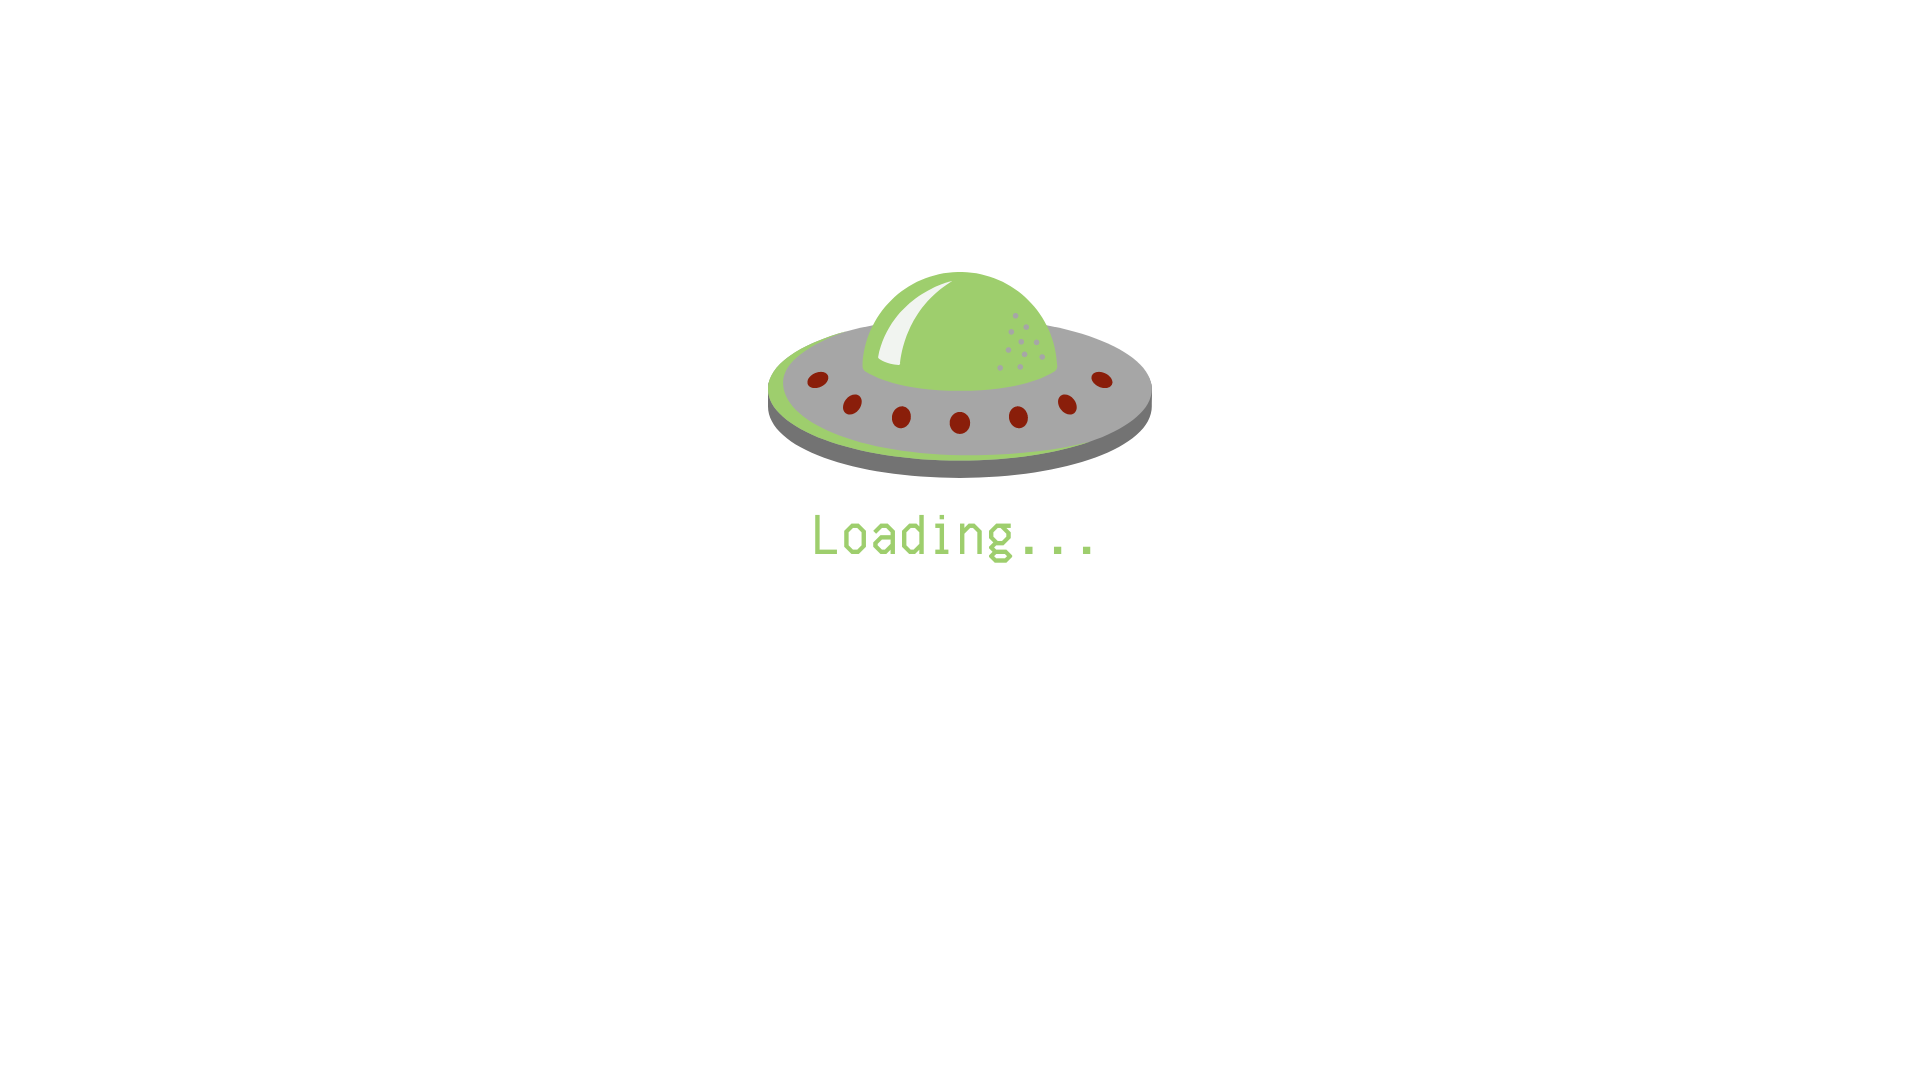
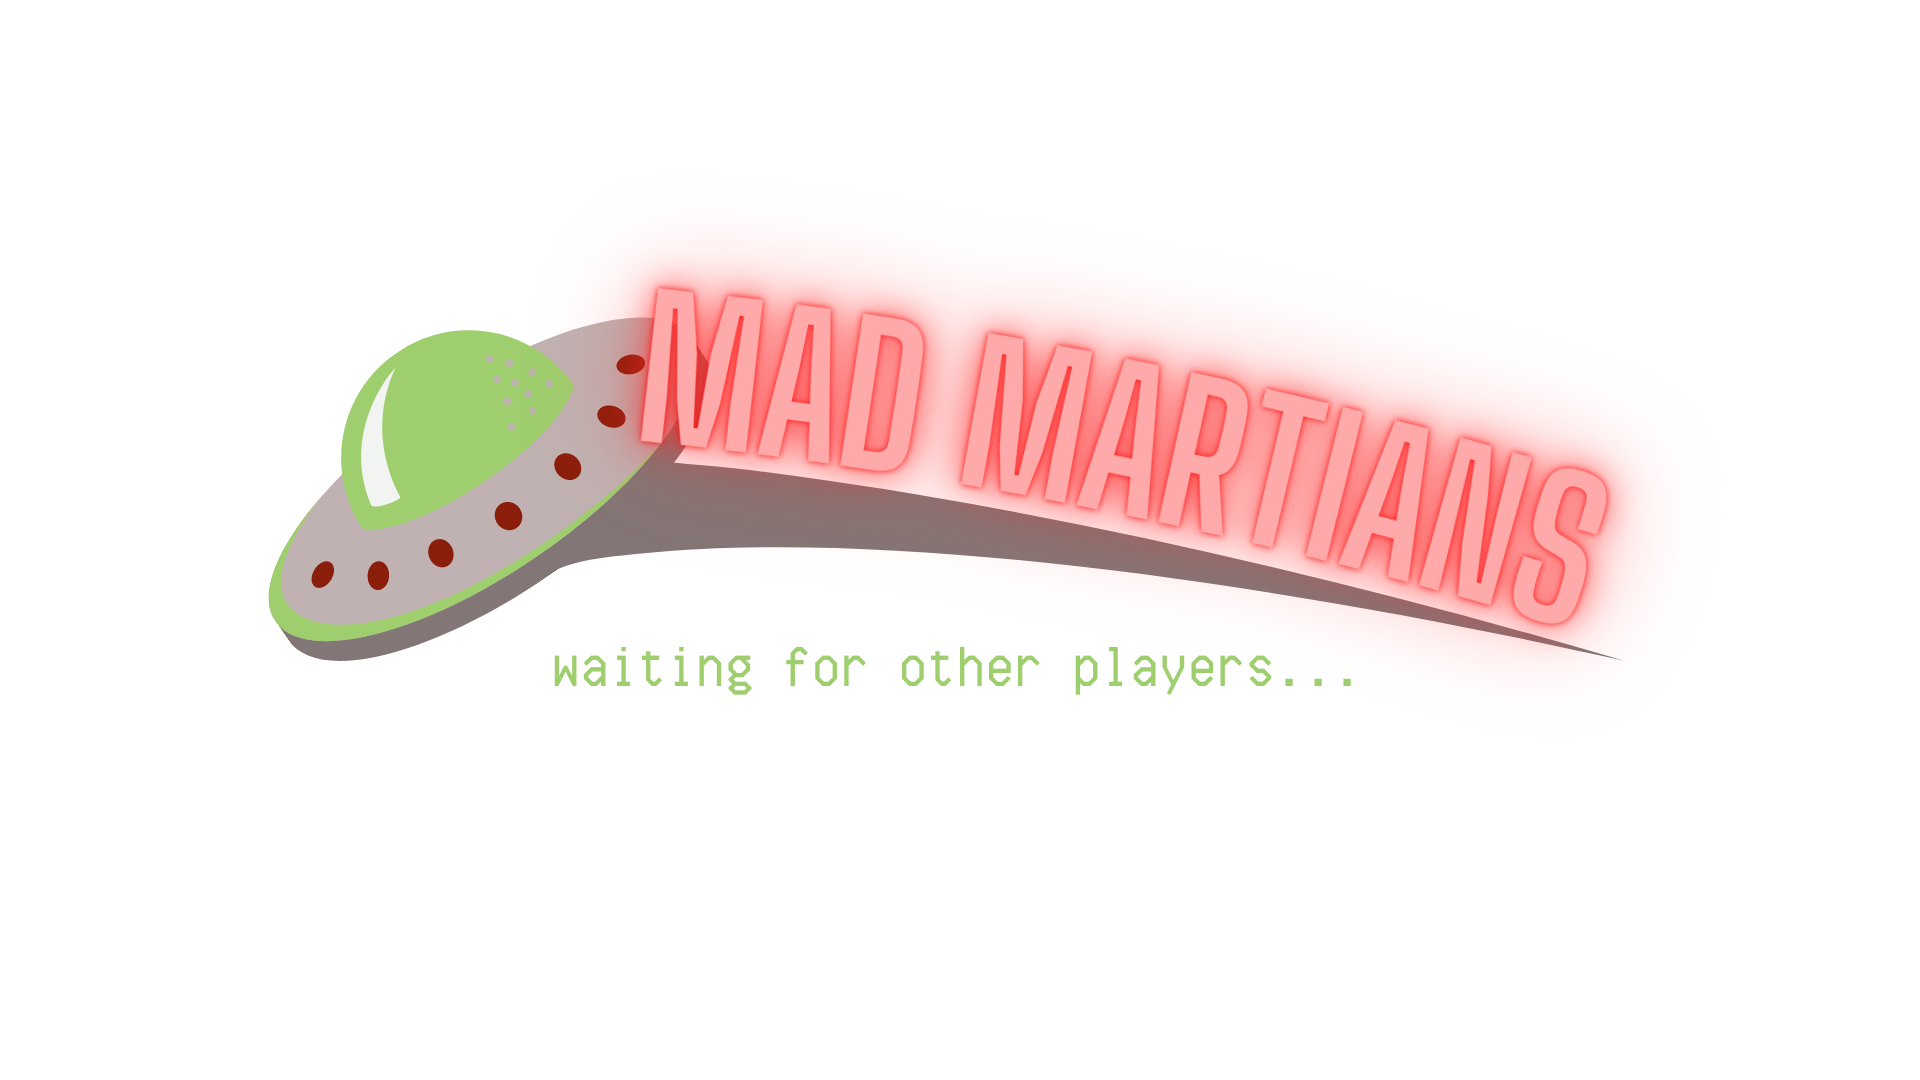
Loading screens, victory and loss screens

Changed region(s): [[0.125, 0.2444, 0.875, 0.6111], [0.4688, 0.6111, 0.6875, 0.6417], [0.2812, 0.6111, 0.4375, 0.6417]]

diff --git a/Game/src/graphics/GameWorld.cpp b/Game/src/graphics/GameWorld.cpp
@@ -22,7 +22,11 @@ Text* enemiesKilledT;
 Text* towersBuiltT;
 char str[65536];
 
-void GameWorld::init() {
+void GameWorld::init(GLFWwindow* window) {
+
+	guiProgram = new Shader("../shaders/gui.vert", "shaders/gui.frag");
+	loading(window, "../assets/screens/Title0.png");
+
 	currID = 0;
 	env = new Skybox();
 	env->setSkyShader(new Shader("../shaders/skybox.vert", "../shaders/skybox.frag"));
@@ -31,21 +35,29 @@ void GameWorld::init() {
 	models[MODEL_ID_CUBE] = new ObjectModel("../assets/cube/cube.obj");
 	models[MODEL_ID_ROVER] = new ObjectModel("../assets/rover/rover.obj");
 
+	loading(window, "../assets/screens/Title10.png");
+
 	models[MODEL_ID_MOB] = new ObjectModel("../assets/martian/martian.obj");
 	models[MODEL_ID_MOB_TANK] = new ObjectModel("../assets/martian/martian_tank.obj");
 	models[MODEL_ID_MOB_MINI] = new ObjectModel("../assets/martian/martian_fast.obj"); //TODO: make smol
 	models[MODEL_ID_MOB_FLYING] = new ObjectModel("../assets/ufo/ufo_v2.obj");
 	models[MODEL_ID_MOB_TRACTOR] = new ObjectModel("../assets/ufo/ufo_v2.obj");
 
+	loading(window, "../assets/screens/Title20.png");
+
 	models[MODEL_ID_TOWER] = new ObjectModel("../assets/tower/tower.obj");
 	models[MODEL_ID_TESLA] = new ObjectModel("../assets/tesla/tower_tesla.obj");
 	models[MODEL_ID_RAILGUN] = new ObjectModel("../assets/railgun/tower_railgun.obj");
 	models[MODEL_ID_BARRIER] = new ObjectModel("../assets/barricade/barricade_wood.obj");
 
+	loading(window, "../assets/screens/Title30.png");
+
 	models[MODEL_ID_RESOURCE] = new ObjectModel("../assets/tree/tree.obj");
 	models[MODEL_ID_RESOURCE_STONE] = new ObjectModel("../assets/crystal_rock/crystal_rock.obj");
 
 	models[MODEL_ID_PROJECTILE] = new ObjectModel("../assets/laser_projectile/laser_projectile.obj");
+
+	loading(window, "../assets/screens/Title40.png");
 
 	models[MODEL_ID_BASE] = new ObjectModel("../assets/bear/bear.obj");
 	models[MODEL_ID_BEAR] = new ObjectModel("../assets/bear/bear.obj");
@@ -55,6 +67,8 @@ void GameWorld::init() {
 	models[MODEL_ID_BEAR_LLEG] = new ObjectModel("../assets/bear/lleg.obj");
 	models[MODEL_ID_BEAR_RLEG] = new ObjectModel("../assets/bear/rleg.obj");
 	models[MODEL_ID_BEAR_BODY] = new ObjectModel("../assets/bear/body.obj");
+
+	loading(window, "../assets/screens/Title50.png");
 
 	//models[MODEL_ID_SUNGOD] = new ObjectModel("../assets/crystal_rock/crystal_rock.obj");
 
@@ -67,6 +81,8 @@ void GameWorld::init() {
 	shaders[MODEL_ID_MOB_FLYING] = new Shader("../shaders/ufo_shader.vert", "../shaders/model_loading.frag");
 	shaders[MODEL_ID_MOB_TRACTOR] = new Shader("../shaders/ufo_shader.vert", "../shaders/model_loading.frag");
 
+	loading(window, "../assets/screens/Title60.png");
+
 	shaders[MODEL_ID_TOWER] = new Shader("../shaders/model_loading.vert", "../shaders/model_loading.frag");
 	shaders[MODEL_ID_RAILGUN] = new Shader("../shaders/model_loading.vert", "../shaders/model_loading.frag");
 	shaders[MODEL_ID_TESLA] = new Shader("../shaders/model_loading.vert", "../shaders/model_loading.frag");
@@ -76,6 +92,8 @@ void GameWorld::init() {
 	shaders[MODEL_ID_RESOURCE_STONE] = new Shader("../shaders/model_loading.vert", "../shaders/model_loading.frag");
 
 	shaders[MODEL_ID_PROJECTILE] = new Shader("../shaders/model_loading.vert", "../shaders/model_loading.frag");
+
+	loading(window, "../assets/screens/Title70.png");
 
 	shaders[MODEL_ID_BASE] = new Shader("../shaders/model_loading.vert", "../shaders/model_loading.frag");
 	shaders[MODEL_ID_BEAR] = new Shader("../shaders/model_loading.vert", "../shaders/model_loading.frag");
@@ -87,6 +105,8 @@ void GameWorld::init() {
 	shaders[MODEL_ID_BEAR_BODY] = new Shader("../shaders/model_loading.vert", "../shaders/model_loading.frag");
 	//shaders[MODEL_ID_SUNGOD] = new ObjectModel("../assets/crystal_rock/crystal_rock.obj");
 
+	loading(window, "../assets/screens/Title80.png");
+
 	healthShader = new Shader("../shaders/shader.vert", "../shaders/shader.frag");
 	ObjectModel* healthModel = new ObjectModel("../assets/cube/cube.obj");
 	playerHealth = 1.0f;
@@ -95,6 +115,8 @@ void GameWorld::init() {
 		AABBs[i] = new Cube(shaders[MODEL_ID_CUBE], models[MODEL_ID_CUBE]);
 		healths[i] = new HealthBar(healthShader, healthModel);
 	}
+
+	loading(window, "../assets/screens/Title90.png");
 	cam = new Camera();
 	shakeScreen = false;
 	screenShakeOn = false;
@@ -103,8 +125,33 @@ void GameWorld::init() {
 	for (int i = 0; i < NUM_GUI; i++) {
 		guis[i] = new GUIElement();
 	}
+
+	loading(window, "../assets/screens/Title100.png");
 	GUI_Init();
+
+	loading(window, "../assets/screens/waiting.png");
 }
+
+void GameWorld::loading(GLFWwindow* window, char* path) {
+
+	glfwMakeContextCurrent(window);
+	glClear(GL_COLOR_BUFFER_BIT | GL_DEPTH_BUFFER_BIT);
+
+	stbi_set_flip_vertically_on_load(true);
+	GUIElement* loadingScreen = new GUIElement();
+	loadingScreen->SetHidden(false);
+	loadingScreen->SetName("loading screen");
+	loadingScreen->SetPosition(glm::vec3(0.0f, 0.0f, 0.0f));
+	loadingScreen->SetSize(glm::vec2(2.0f, 1.6f));
+	loadingScreen->SetTexture(path);
+	loadingScreen->SetTransparency(1.0);
+	loadingScreen->draw(glm::mat4(1.0), guiProgram);
+
+	glfwPollEvents();
+	glfwSwapBuffers(window);
+	// Loading Screen
+}
+
 void GameWorld::GUI_Init() {
 	text = new Text("../assets/font.ttf");
 	spawntimerT = new Text("../assets/font.ttf");

diff --git a/Game/src/graphics/GameWindow.cpp b/Game/src/graphics/GameWindow.cpp
@@ -24,7 +24,7 @@ GameWindow::GameWindow(int width, int height) {
     glfwWindowHint(GLFW_SAMPLES, 4);
 
     // Create the GLFW window.
-    window = glfwCreateWindow(width, height, windowTitle, NULL, NULL);
+    window = glfwCreateWindow(width, height, windowTitle, glfwGetPrimaryMonitor(), NULL);
 
     // Check if the window could not be created.
     if (!window) {
@@ -51,7 +51,7 @@ GameWindow::GameWindow(int width, int height) {
     // Call the resize callback to make sure things get drawn immediately.
     resizeCallback(window, width, height);
 
-    setup();
+    setup(window);
 }
 
 GameWindow::~GameWindow() {
@@ -67,30 +67,7 @@ void GameWindow::cleanUp() {
     shaderProgram->cleanup();
 }
 
-void GameWindow::loadingScreen() {
-
-    glfwMakeContextCurrent(window);
-    glClear(GL_COLOR_BUFFER_BIT | GL_DEPTH_BUFFER_BIT);
-
-    stbi_set_flip_vertically_on_load(true);
-    GUIElement* loadingScreen = new GUIElement();
-    loadingScreen->SetHidden(false);
-    loadingScreen->SetName("loading screen");
-    loadingScreen->SetPosition(glm::vec3(0.0f, 0.0f, 0.0f));
-    loadingScreen->SetSize(glm::vec2(4.0f, 2.25f));
-    loadingScreen->SetTexture("../assets/screens/loading.png");
-    loadingScreen->SetTransparency(1.0);
-    loadingScreen->draw(glm::mat4(1.0), guiProgram);
-
-    std::cout << "PRINTING LOADING SCREEN\n";
-
-    glfwPollEvents();
-    glfwSwapBuffers(window);
-    // Loading Screen
-
-}
-
-void GameWindow::setup() {
+void GameWindow::setup(GLFWwindow* window) {
 
     // Enable depth buffering.
     glEnable(GL_DEPTH_TEST);
@@ -103,9 +80,8 @@ void GameWindow::setup() {
 
     // Initialize the shader program; exit if initialization fails.
     if (!initializeProgram()) exit(EXIT_FAILURE);
-    loadingScreen();
     // Initialize objects/pointers for rendering; exit if initialization fails.
-    if (!initializeObjects()) exit(EXIT_FAILURE);
+    if (!initializeObjects(window)) exit(EXIT_FAILURE);
 }
 bool GameWindow::initializeProgram() {
     // Create a shader program with a vertex shader and a fragment shader.
@@ -122,9 +98,9 @@ void GameWindow::resizeCallback(GLFWwindow* window, int w, int h) {
 
     //cam->SetAspect(float(width) / float(height));
 }
-bool GameWindow::initializeObjects() {
+bool GameWindow::initializeObjects(GLFWwindow* window) {
     gameWorld = new GameWorld();
-    gameWorld->init();
+    gameWorld->init(window);
     return true;
 }
 
@@ -136,13 +112,49 @@ void GameWindow::displayCallback() {
     glfwMakeContextCurrent(window);
     glClear(GL_COLOR_BUFFER_BIT | GL_DEPTH_BUFFER_BIT);
     //player->draw(cam->GetViewProjectMtx(), shaderProgram);
-    gameWorld->draw(guiProgram,width, height);
+    gameWorld->draw(guiProgram, width, height);
     glfwPollEvents();
     glfwSwapBuffers(window);
 }
 void GameWindow::update(ServertoClientData& incomingData, int id) {
     displayCallback();
     idleCallback(incomingData, id);
+}
+
+void GameWindow::win() {
+    glfwMakeContextCurrent(window);
+    glClear(GL_COLOR_BUFFER_BIT | GL_DEPTH_BUFFER_BIT);
+    
+    stbi_set_flip_vertically_on_load(true);
+    GUIElement* loadingScreen = new GUIElement();
+    loadingScreen->SetHidden(false);
+    loadingScreen->SetName("loading screen");
+    loadingScreen->SetPosition(glm::vec3(0.0f, 0.0f, 0.0f));
+    loadingScreen->SetSize(glm::vec2(2.0f, 1.6f));
+    loadingScreen->SetTexture("../assets/screens/Victory.png");
+    loadingScreen->SetTransparency(1.0);
+    loadingScreen->draw(glm::mat4(1.0), guiProgram);
+
+    glfwPollEvents();
+    glfwSwapBuffers(window);
+}
+
+void GameWindow::loss() {
+    glfwMakeContextCurrent(window);
+    glClear(GL_COLOR_BUFFER_BIT | GL_DEPTH_BUFFER_BIT);
+
+    stbi_set_flip_vertically_on_load(true);
+    GUIElement* loadingScreen = new GUIElement();
+    loadingScreen->SetHidden(false);
+    loadingScreen->SetName("loading screen");
+    loadingScreen->SetPosition(glm::vec3(0.0f, 0.0f, 0.0f));
+    loadingScreen->SetSize(glm::vec2(2.0f, 1.6f));
+    loadingScreen->SetTexture("../assets/screens/Game_Over.png");
+    loadingScreen->SetTransparency(1.0);
+    loadingScreen->draw(glm::mat4(1.0), guiProgram);
+
+    glfwPollEvents();
+    glfwSwapBuffers(window);
 }
 
 

diff --git a/Game/src/ClientGame.cpp b/Game/src/ClientGame.cpp
@@ -65,11 +65,31 @@ void ClientGame::update()
     
     //Render
     if (initData.id != INVALID_CLIENT_ID && incomingData.serverStatus != UNKNOWN_SERVER_STATUS) {
-        for (int i = 0; i < MAX_ENTITIES; ++i) {
-            incomingData.models[i].renderCollider = renderColliders;
+        switch (incomingData.serverStatus) {
+        case ServerStatus::init:
+            //waiting for other player
+            break;
+        case ServerStatus::game:
+            for (int i = 0; i < MAX_ENTITIES; ++i) {
+                incomingData.models[i].renderCollider = renderColliders;
+            }
+            gameWindow->update(incomingData, initData.id);
+            audioManager->update(gameWindow->getCamPosition(), glm::normalize(gameWindow->getCamDirectionVector()), glm::normalize(gameWindow->getCamUpVector()), incomingData);
+            break;
+        case ServerStatus::loss:
+            printf("You lose\n");
+            gameWindow->loss();
+            break;
+        case ServerStatus::win:
+            printf("You won\n");
+            gameWindow->win();
+            break;
+        default:
+            printf("WTF");
+            break;
         }
-        gameWindow->update(incomingData, initData.id);
-        audioManager->update(gameWindow->getCamPosition(), glm::normalize(gameWindow->getCamDirectionVector()), glm::normalize(gameWindow->getCamUpVector()), incomingData);
+
+
     }
     
     //Process combat logs

diff --git a/Game/src/GameConstants.h b/Game/src/GameConstants.h
@@ -36,7 +36,7 @@ const float GROUND_HEIGHT = -1.0;
 //Base health values of different game entities
 const float PLAYER_BASE_HEALTH = 100;
 const float ENEMY_BASE_HEALTH = 200;
-const float HOME_BASE_HEALTH = 1000;
+const float HOME_BASE_HEALTH = 1;
 const float RESOURCE_BASE_HEALTH = 200;
 const float BARRIER_BASE_HEALTH = 100;
 
@@ -59,10 +59,10 @@ constexpr size_t NUM_UP_LEVELS = 3;
 const int ACTION_COOLDOWN = TICK_RATE;
 
 //ground enemy base movespeed in units/sec
-const float ENEMY_GND_MVSPD_PERSEC = 5;
+const float ENEMY_GND_MVSPD_PERSEC = 10;
 
 //How many seconds until first wave spawns
-const float ENEMY_SPAWNDELAY_SEC = 60;
+const float ENEMY_SPAWNDELAY_SEC = 0;
 
 //ground enemy base attack damage
 const float ENEMY_GND_BASE_DMG = 30;

diff --git a/Game/src/graphics/GameWorld.h b/Game/src/graphics/GameWorld.h
@@ -21,6 +21,8 @@ private:
 
     Skybox* env;
 
+    Shader* guiProgram;
+
     Camera* cam;
     static float prevX, prevY, currX, currY, scrollY;
 
@@ -31,7 +33,7 @@ private:
     //static int mouseDX, mouseDY;
 
 public:
-    void init();
+    void init(GLFWwindow* window);
     
     int width;
     int height;
@@ -61,6 +63,7 @@ public:
     //
     void GUI_Init();
     void update(ServertoClientData& incomingData, int id);
+    void loading(GLFWwindow* window, char* path);
 
     //render all active entities
     void draw(Shader* guiShader, float width, float height);

diff --git a/Game/src/ServerGame.cpp b/Game/src/ServerGame.cpp
@@ -376,8 +376,6 @@ void ServerGame::update()
     }
 
 
-
-
     //Print debug message buffer
     printf(debug);
     debug[0] = '\0';
@@ -525,7 +523,7 @@ void ServerGame::handleInputs()
 
 void ServerGame::sendPackets()
 {
-    if (currentStatus == game) {
+    if (currentStatus == game || currentStatus == loss || currentStatus == win) {
         //Send Data to Clients
         packageData(gameState);
         network->sendActionPackets(gameState);

diff --git a/Game/src/graphics/GameWindow.h b/Game/src/graphics/GameWindow.h
@@ -28,11 +28,13 @@ public:
 	int height;
 	GameWindow(int width, int height);
 	~GameWindow();
-	void setup();
+	void setup(GLFWwindow* window);
 	bool initializeProgram();
-	bool initializeObjects();
-	void loadingScreen();
+	bool initializeObjects(GLFWwindow* window);
 	void cleanUp();
+
+	void win();
+	void loss();
 
 
 	// update and draw functions

diff --git a/Game/src/ClientGame.h b/Game/src/ClientGame.h
@@ -38,4 +38,11 @@ public:
     static void keyCallback(GLFWwindow* window, int key, int scancode, int action, int mods);
 
     static void mouse_button_callback(GLFWwindow* window, int button, int action, int mods);
+
+    enum ServerStatus {
+        init,
+        game,
+        win,
+        loss
+    };
 };
